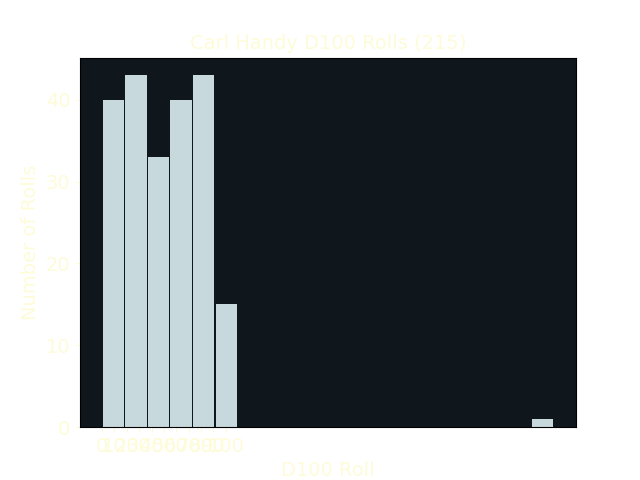
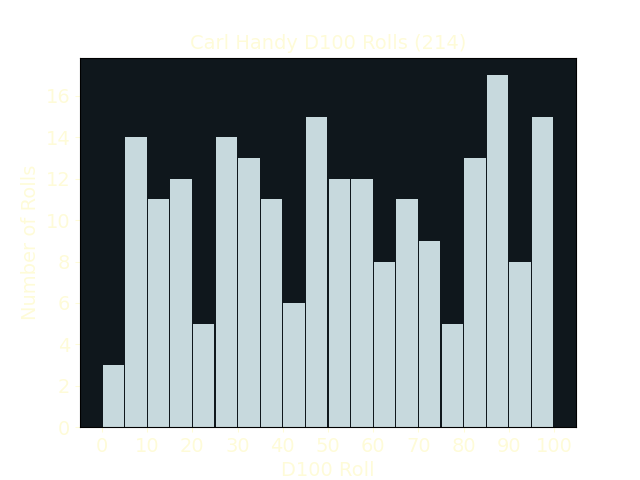
test

diff --git a/LogClasses.py b/LogClasses.py
@@ -195,6 +195,7 @@ class ChatLog():
             roll_df = roll_df[roll_df['Text Type'].str.contains(f'Roll:{player}')]
             filename = player.replace(' ', '')
         roll_df['Roll#'] = roll_df['Roll'].str.split(' = ').str[-1].astype(int)
+        roll_df = roll_df[roll_df['Roll#'] <= 100]
         roll_df['Roll##'] = (roll_df['Roll#']/5).round().astype(int)*5
         count_df = roll_df.groupby(['Roll##'])['Roll##'].size().reset_index(name='counts')
         count_df = count_df.sort_values(['Roll##'])
